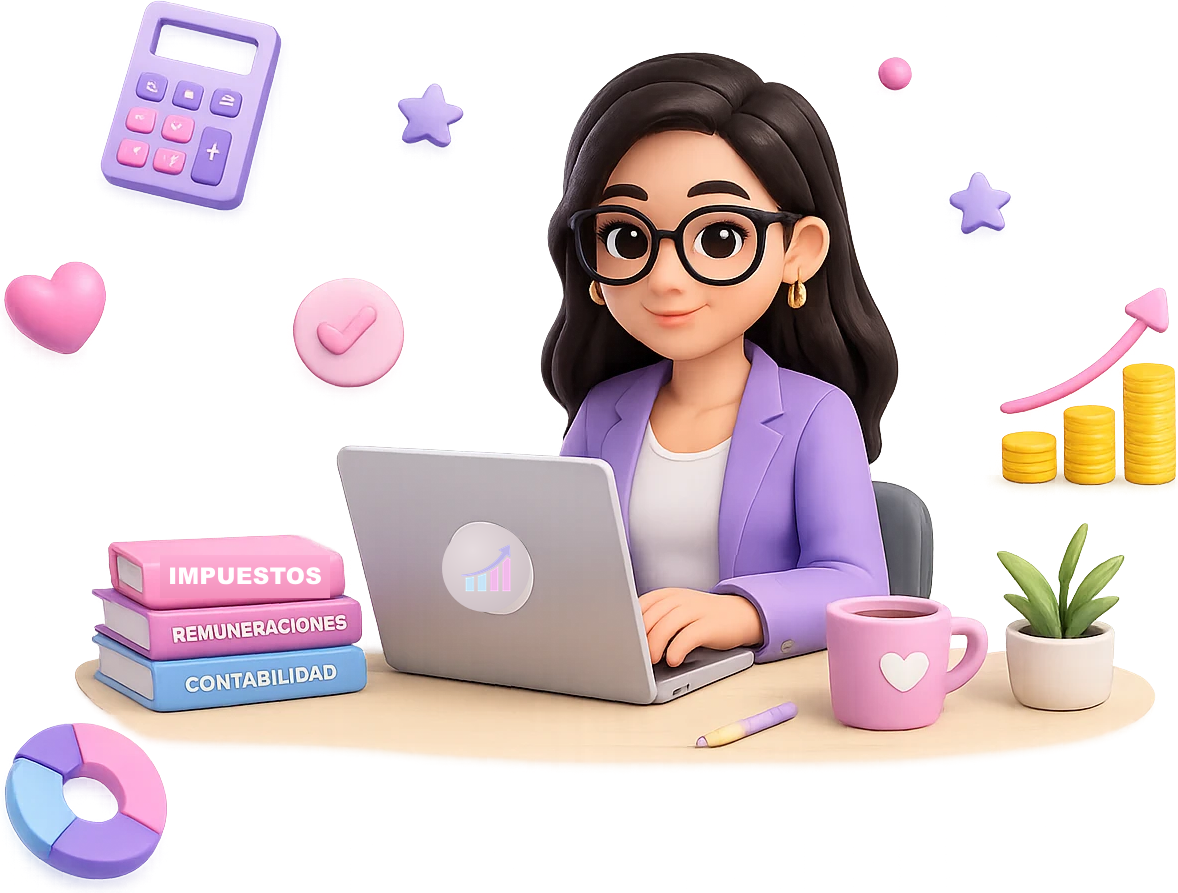
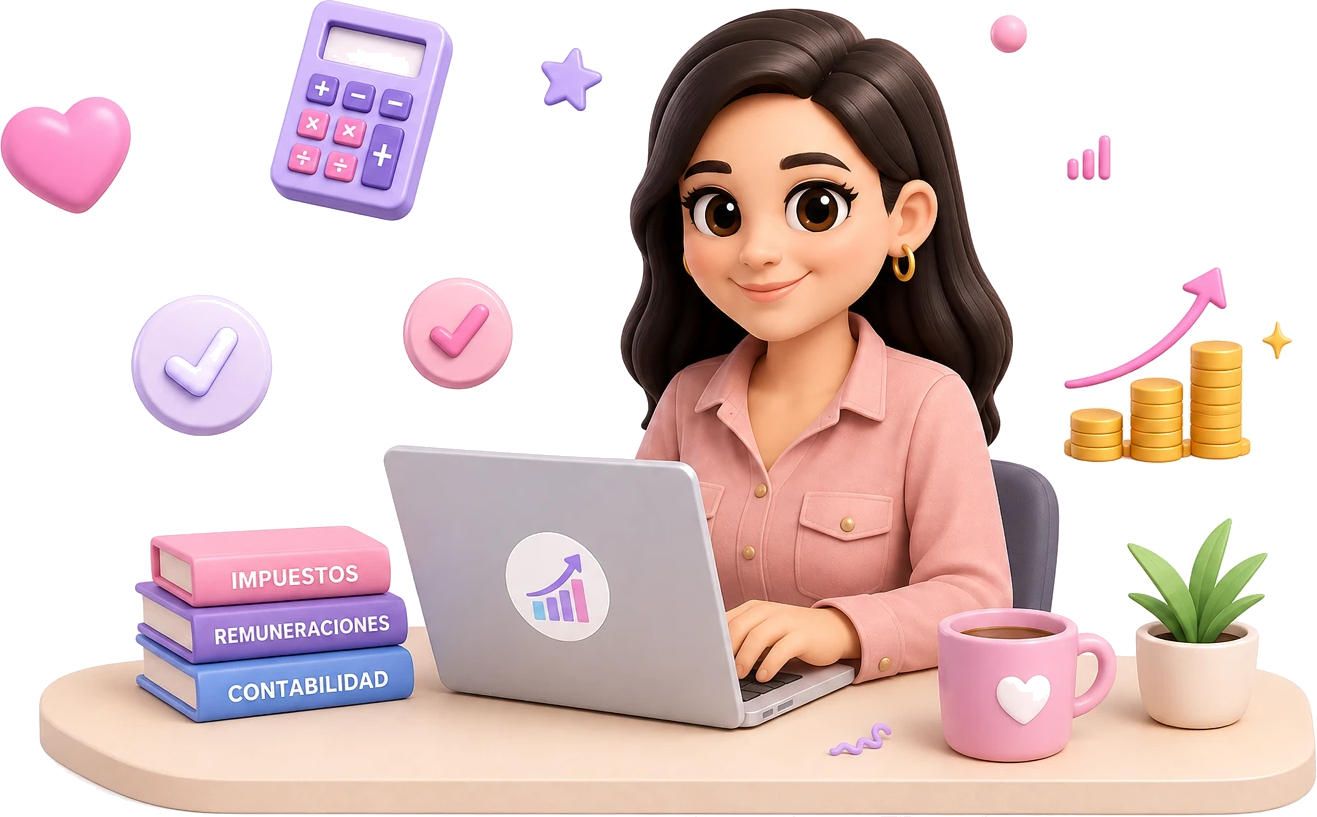
Swap hero illustration and rebuild testimonials as speech-bubble cards
- Replace hero illustration with the corrected asset (no typo, real
  logo already baked in) and integrate it into the gradient the same
  way as before.
- Rebuild the testimonials section as coded speech-bubble cards
  (avatar + stars + quote + name, with a bubble tail) instead of
  screenshot images, using the three real client reviews (coy_plussize,
  insignia.spa, grido.hualpen) with their real avatar logos.
- Restyle the section heading to match the two-line "Recomendación /
  de Clientes" treatment with an underline accent.

diff --git a/src/components/sections/Testimonios.tsx b/src/components/sections/Testimonios.tsx
@@ -1,11 +1,26 @@
 import Image from "next/image";
-import { Heart, Users, MessageCircle, HeartHandshake, TrendingUp } from "lucide-react";
+import { Heart, Star, Users, MessageCircle, HeartHandshake, TrendingUp } from "lucide-react";
 import { Sparkle, Dot } from "@/components/Decor";
 
 const testimonials = [
-  { name: "klaudiamerica", image: "/testimonials/klaudiamerica.jpg" },
-  { name: "Claudia Castro", image: "/testimonials/claudia-castro.jpg" },
-  { name: "insignia.spa", image: "/testimonials/insignia-spa.jpg" },
+  {
+    name: "coy_plussize",
+    avatar: "/testimonials/coy-plussize.png",
+    quote:
+      "La mejor!!! La verdad es que he descansado en usted, era tremendo no tener respuestas con otros contadores o no sentir la confianza 100% gracias por todo!!",
+  },
+  {
+    name: "insignia.spa",
+    avatar: "/testimonials/insignia-spa.png",
+    quote:
+      "Sin duda el mejor servicio que pude haber encontrado muy responsable y muy transparente su trabajo ademas destacar la buena disposición siempre 💗✨",
+  },
+  {
+    name: "grido.hualpen",
+    avatar: "/testimonials/grido-hualpen.png",
+    quote:
+      "Muy buen servicio y sobre todo confiable que es lo que buscamos hoy en día, siempre atenta Camila a cualquier consulta y asesoramiento muchas gracias y felicidades que sean muchos más 💗",
+  },
 ];
 
 const trustItems = [
@@ -24,34 +39,65 @@ export default function Testimonios() {
       <Dot className="absolute right-[4%] bottom-12 hidden sm:block" color="var(--color-pink)" size={10} delay={2.4} />
 
       <div className="mx-auto max-w-6xl px-5 text-center lg:px-8">
-        <h2 className="flex flex-wrap items-center justify-center gap-3 font-heading text-3xl font-extrabold sm:text-4xl">
-          <span className="text-navy">Recomendación de</span>
-          <span className="text-pink-dark">Clientes</span>
-          <Heart size={30} className="fill-pink text-pink" />
+        <h2 className="font-heading text-4xl font-extrabold sm:text-5xl">
+          <span className="block text-navy">Recomendación</span>
+          <span className="mt-2 flex items-center justify-center gap-2">
+            <span className="text-navy">de</span>
+            <span className="relative text-pink-dark">
+              Clientes
+              <svg
+                viewBox="0 0 120 14"
+                className="absolute -bottom-2 left-0 h-3 w-full text-pink"
+                preserveAspectRatio="none"
+                aria-hidden="true"
+              >
+                <path
+                  d="M2 9C20 2 40 2 60 6C80 10 100 10 118 4"
+                  fill="none"
+                  stroke="currentColor"
+                  strokeWidth="4"
+                  strokeLinecap="round"
+                />
+              </svg>
+            </span>
+            <Heart size={30} className="fill-pink text-pink" />
+          </span>
         </h2>
-        <p className="mt-4 text-navy/70">
+        <p className="mt-5 text-navy/70">
           La <span className="font-semibold text-pink-dark">confianza</span> de nuestros
           clientes es nuestro mayor <span className="font-semibold text-pink-dark">orgullo</span>.
         </p>
 
-        <div className="mt-12 grid gap-6 sm:grid-cols-2 lg:grid-cols-3">
-          {testimonials.map(({ name, image }) => (
-            <div
-              key={name}
-              className="overflow-hidden rounded-3xl bg-white shadow-sm ring-1 ring-black/5"
-            >
-              <Image
-                src={image}
-                alt={`Recomendación de ${name} sobre ${"SN Contable"}`}
-                width={720}
-                height={960}
-                className="aspect-[3/4] w-full object-cover"
+        <div className="mt-14 grid gap-8 sm:grid-cols-2 lg:grid-cols-3">
+          {testimonials.map(({ name, avatar, quote }) => (
+            <div key={name} className="relative">
+              <div className="flex flex-col rounded-3xl bg-white p-6 text-left shadow-md shadow-primary/10 ring-1 ring-black/5">
+                <div className="flex items-center gap-3">
+                  <Image
+                    src={avatar}
+                    alt={name}
+                    width={48}
+                    height={48}
+                    className="h-12 w-12 shrink-0 rounded-full object-cover ring-2 ring-white"
+                  />
+                  <div className="flex gap-0.5 text-pink">
+                    {Array.from({ length: 5 }).map((_, i) => (
+                      <Star key={i} size={16} className="fill-pink text-pink" />
+                    ))}
+                  </div>
+                </div>
+                <p className="mt-4 flex-1 text-navy/75">&ldquo;{quote}&rdquo;</p>
+                <p className="mt-4 font-heading font-bold text-navy">{name}</p>
+              </div>
+              <span
+                className="absolute -bottom-2 left-8 h-5 w-5 rotate-45 rounded-sm bg-white ring-1 ring-black/5"
+                aria-hidden="true"
               />
             </div>
           ))}
         </div>
 
-        <div className="mt-14 grid grid-cols-2 gap-6 rounded-3xl bg-white/80 p-6 text-left shadow-sm ring-1 ring-black/5 sm:grid-cols-4 lg:p-8">
+        <div className="mt-16 grid grid-cols-2 gap-6 rounded-3xl bg-white/80 p-6 text-left shadow-sm ring-1 ring-black/5 sm:grid-cols-4 lg:p-8">
           {trustItems.map(({ icon: Icon, title, text }) => (
             <div key={title} className="flex items-start gap-3">
               <span className="flex h-11 w-11 shrink-0 items-center justify-center rounded-full bg-primary-light/50 text-primary-dark">

diff --git a/src/components/sections/Hero.tsx b/src/components/sections/Hero.tsx
@@ -72,8 +72,8 @@ export default function Hero() {
             <Image
               src="/mockups/hero-illustration.png"
               alt={`Asesora de ${site.name} trabajando en su notebook`}
-              width={1178}
-              height={893}
+              width={1317}
+              height={817}
               priority
               className="w-full drop-shadow-xl"
             />
